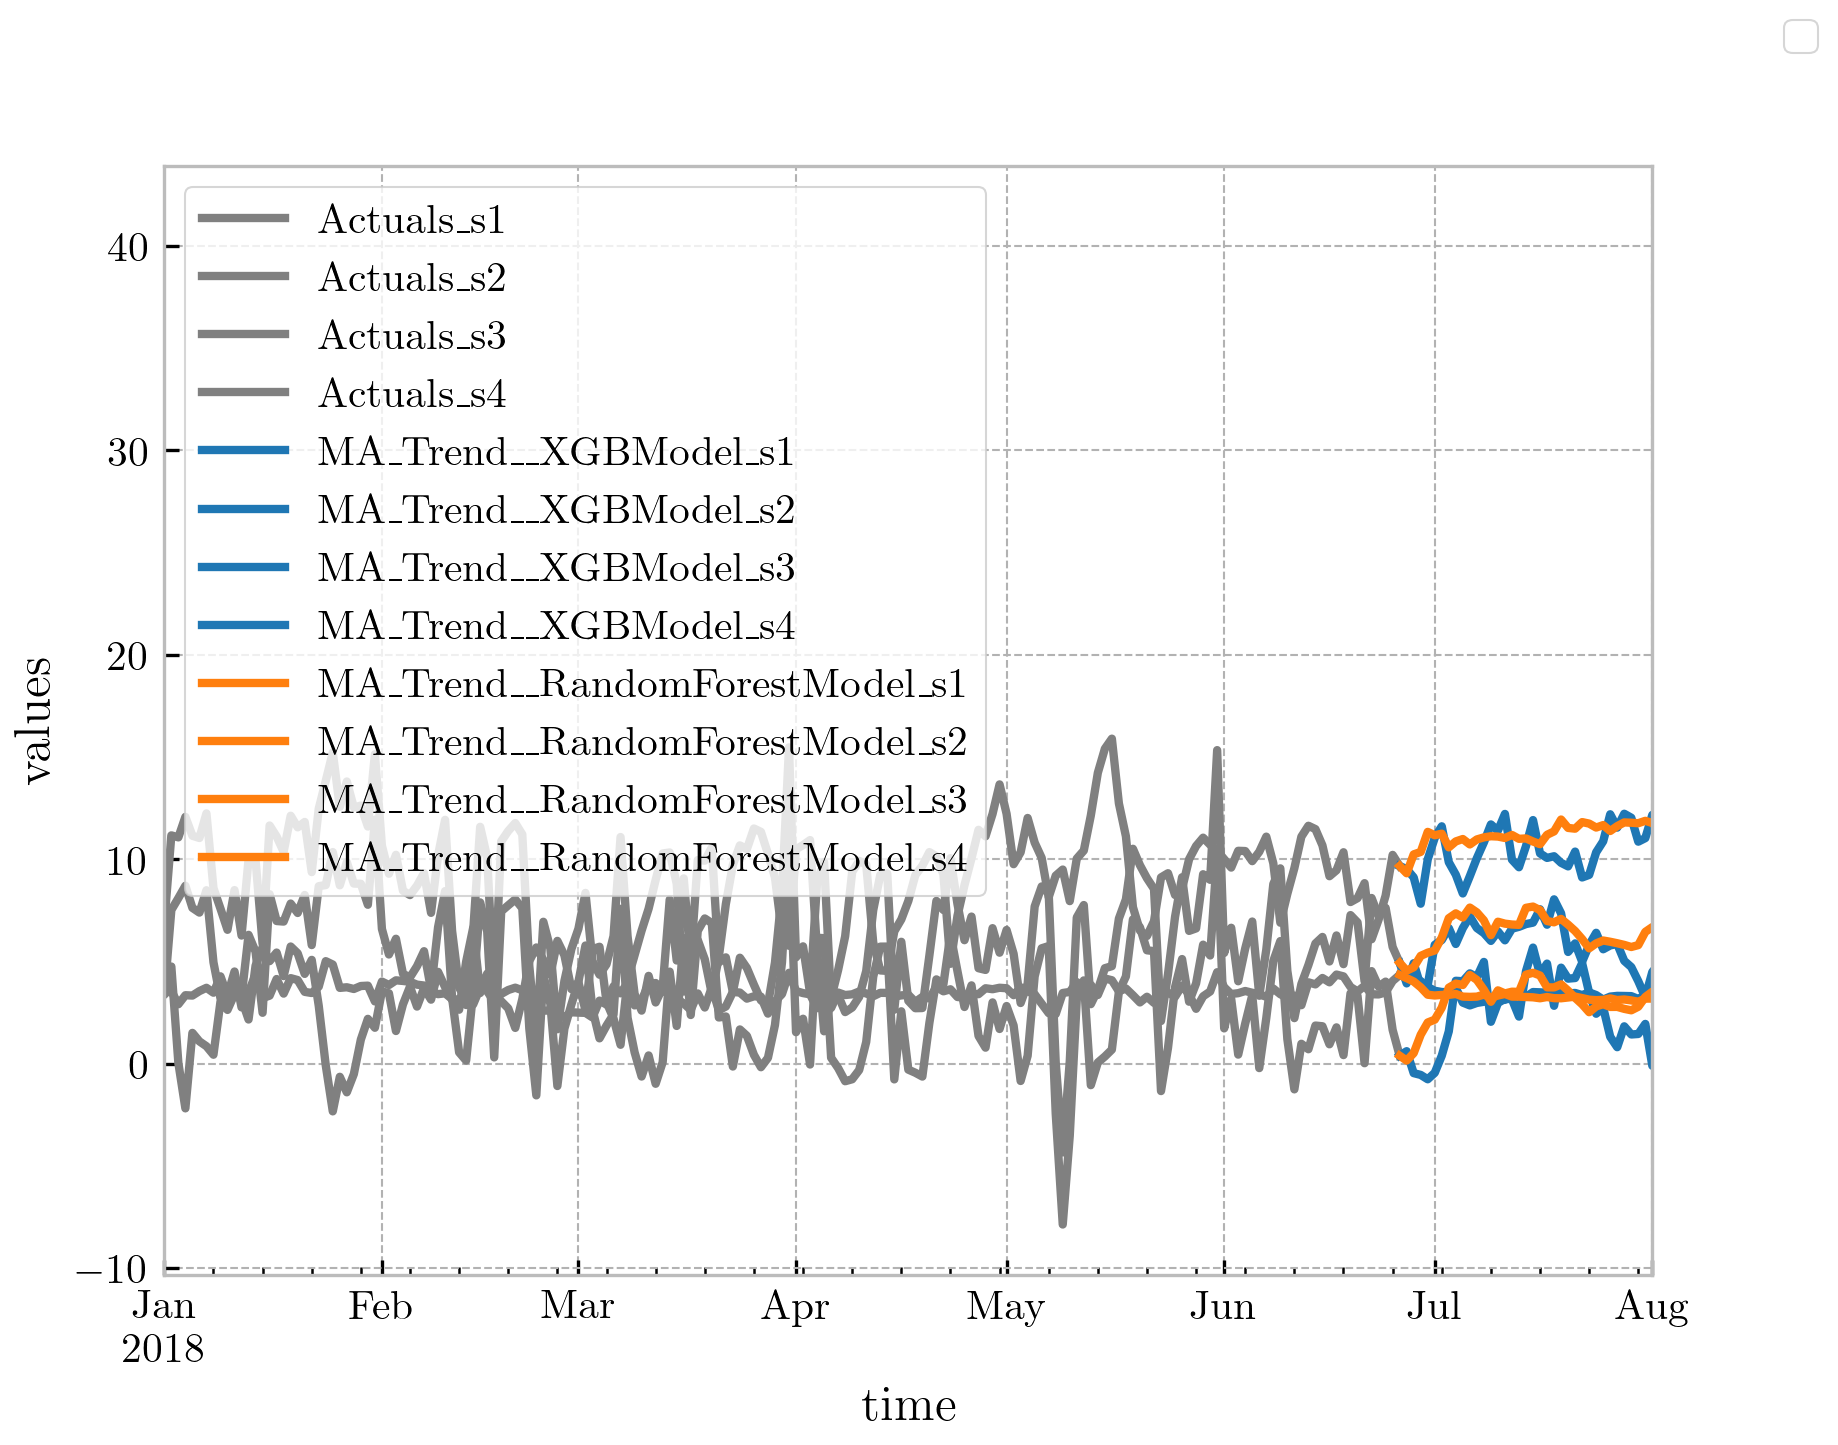
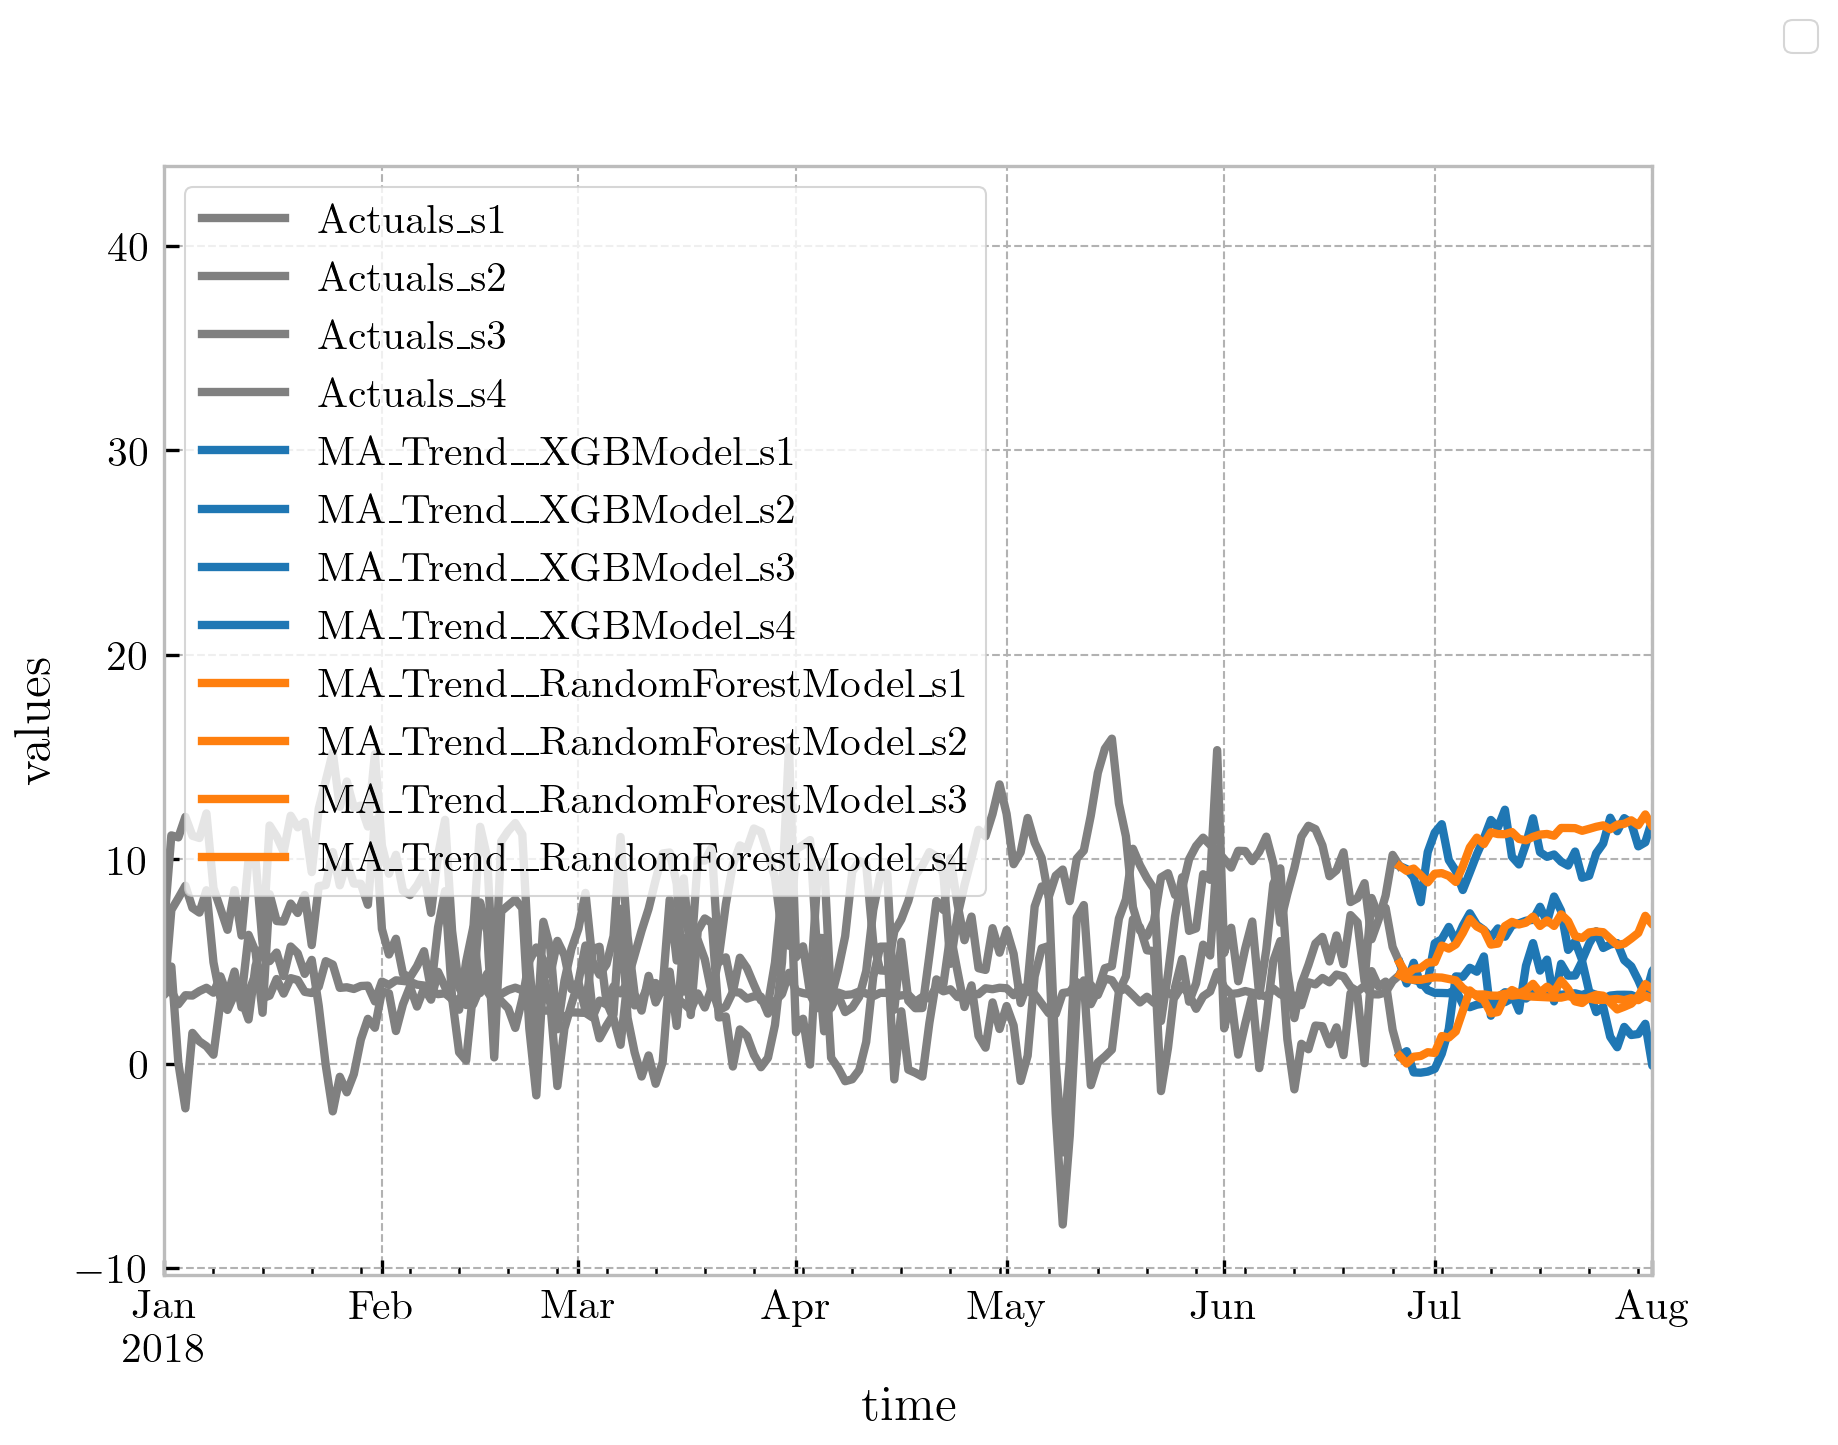
update favorita

Changed region(s): [[0.7443, 0.5606, 0.8993, 0.7474]]

diff --git a/src/pasts/core/handle_nan.py b/src/pasts/core/handle_nan.py
@@ -1,0 +1,208 @@
+# Copyright 2023 Eurobios
+# Licensed under the Apache License, Version 2.0 (the "License");
+# you may not use this file except in compliance with the License.
+# You may obtain a copy of the License at
+#     http://www.apache.org/licenses/LICENSE-2.0
+# Unless required by applicable law or agreed to in writing, software
+# distributed under the License is distributed on an "AS IS" BASIS,
+# WITHOUT WARRANTIES OR CONDITIONS OF ANY KIND, either express or implied.
+# See the License for the specific language governing permissions and limitations under the License.
+
+import warnings
+
+import numpy as np
+import pandas as pd
+
+
+class NaNHandler:
+    """Accessor for NaN handling on a Signal.
+
+    Obtained via ``signal.handle_nan``. All methods operate **in place** on the
+    signal data and return ``self`` so that calls can be chained::
+
+        signal.handle_nan.before_launch(0).interpolate(max_consecutive=5).after_stops(0)
+
+    Methods
+    -------
+    fill(value=0)
+        Replace every NaN with a scalar value.
+    interpolate(max_consecutive=None)
+        Interpolate **internal** gaps only (never touches leading/trailing NaN).
+    extrapolate(method='ffill')
+        Fill NaN at the **edges** of each column (before first / after last valid value).
+    before_launch(value=0)
+        Fill NaN before the first valid observation in each column.
+    after_stops(value=0)
+        Fill NaN after the last valid observation in each column.
+    """
+
+    def __init__(self, signal):
+        self._signal = signal
+
+    # ------------------------------------------------------------------
+    # Internal helpers
+    # ------------------------------------------------------------------
+
+    def _apply(self, result: pd.DataFrame) -> "NaNHandler":
+        """Commit *result* back into the signal and reset metadata."""
+        # Import here to avoid circular imports at module level
+        from pasts.signal import Signal  # noqa: F401 – used for _profiling only
+
+        pd.DataFrame.__init__(self._signal, data=result)
+        self._signal._properties = type(self._signal)._profiling(self._signal)
+        if self._signal._validation._timestamp is not None:
+            self._signal._validation.reset()
+            warnings.warn(
+                "Train/test split has been reset after handle_nan(). "
+                "Call validation_split() again.",
+                UserWarning,
+                stacklevel=3,
+            )
+        return self
+
+    # ------------------------------------------------------------------
+    # Public methods
+    # ------------------------------------------------------------------
+
+    def fill(self, value: float = 0) -> "NaNHandler":
+        """Replace all NaN values with *value*.
+
+        Parameters
+        ----------
+        value : float, optional
+            Fill value (default 0).
+        """
+        result = pd.DataFrame(self._signal).fillna(value)
+        return self._apply(result)
+
+    def interpolate(self, max_consecutive: int = None) -> "NaNHandler":
+        """Interpolate **internal** NaN gaps with linear interpolation.
+
+        Only gaps that are surrounded by valid values on both sides are filled
+        (``limit_area='inside'``). Leading and trailing NaN are left untouched.
+
+        Parameters
+        ----------
+        max_consecutive : int, optional
+            Maximum number of consecutive NaN values to interpolate. Gaps
+            longer than this value are left as NaN. If ``None`` (default),
+            all internal gaps are interpolated regardless of length.
+        """
+        df = pd.DataFrame(self._signal)
+        result = df.interpolate(
+            method='linear',
+            limit=max_consecutive,
+            limit_area='inside',
+        )
+        return self._apply(result)
+
+    def extrapolate(self, method: str = 'ffill') -> "NaNHandler":
+        """Fill NaN at the **edges** of each column.
+
+        Targets only leading NaN (before first valid value) and trailing NaN
+        (after last valid value). Internal NaN are left untouched.
+
+        Parameters
+        ----------
+        method : str, optional
+            ``'ffill'`` — forward fill (repeat last known value).
+            ``'bfill'`` — backward fill (repeat first known value).
+            ``'linear'`` — linear extrapolation using the 2 nearest valid points.
+            Default is ``'ffill'``.
+        """
+        if method not in ('ffill', 'bfill', 'linear'):
+            raise ValueError(
+                f"Unknown extrapolation method {method!r}. "
+                "Use 'ffill', 'bfill', or 'linear'."
+            )
+        df = pd.DataFrame(self._signal).copy()
+
+        if method == 'ffill':
+            result = df.ffill()
+        elif method == 'bfill':
+            result = df.bfill()
+        else:  # linear
+            result = df.copy()
+            for col in df.columns:
+                series = df[col]
+                valid = series.dropna()
+                if len(valid) < 2:
+                    continue
+                # Forward extrapolation (trailing NaN)
+                if pd.isna(series.iloc[-1]):
+                    x0, x1 = valid.index[-2], valid.index[-1]
+                    y0, y1 = valid.iloc[-2], valid.iloc[-1]
+                    slope = _linear_slope(x0, x1, y0, y1)
+                    for idx in series.index[series.index > x1]:
+                        gap = _index_diff(x1, idx, series.index)
+                        result.loc[idx, col] = y1 + slope * gap
+                # Backward extrapolation (leading NaN)
+                if pd.isna(series.iloc[0]):
+                    x0, x1 = valid.index[0], valid.index[1]
+                    y0, y1 = valid.iloc[0], valid.iloc[1]
+                    slope = _linear_slope(x0, x1, y0, y1)
+                    for idx in series.index[series.index < x0]:
+                        gap = _index_diff(x0, idx, series.index)
+                        result.loc[idx, col] = y0 + slope * gap
+
+        return self._apply(result)
+
+    def before_launch(self, value: float = 0) -> "NaNHandler":
+        """Fill NaN **before** the first valid observation in each column.
+
+        Useful for products that were not yet launched at the start of the
+        series — their leading NaN values are replaced with *value*.
+
+        Parameters
+        ----------
+        value : float, optional
+            Fill value (default 0).
+        """
+        df = pd.DataFrame(self._signal).copy()
+        for col in df.columns:
+            first_valid = df[col].first_valid_index()
+            if first_valid is not None:
+                mask = df.index < first_valid
+                df.loc[mask, col] = df.loc[mask, col].fillna(value)
+        return self._apply(df)
+
+    def after_stops(self, value: float = 0) -> "NaNHandler":
+        """Fill NaN **after** the last valid observation in each column.
+
+        Useful for products that have been discontinued — their trailing NaN
+        values are replaced with *value* (typically 0).
+
+        Parameters
+        ----------
+        value : float, optional
+            Fill value (default 0).
+        """
+        df = pd.DataFrame(self._signal).copy()
+        for col in df.columns:
+            last_valid = df[col].last_valid_index()
+            if last_valid is not None:
+                mask = df.index > last_valid
+                df.loc[mask, col] = df.loc[mask, col].fillna(value)
+        return self._apply(df)
+
+
+# ------------------------------------------------------------------
+# Private helpers for linear extrapolation
+# ------------------------------------------------------------------
+
+def _linear_slope(x0, x1, y0, y1):
+    """Slope between two points. Works for both numeric and datetime indices."""
+    dx = _index_diff(x0, x1, None)
+    if dx == 0:
+        return 0.0
+    return (y1 - y0) / dx
+
+
+def _index_diff(ref, target, index):
+    """Signed numeric distance from *ref* to *target* (1 unit = 1 step)."""
+    if isinstance(ref, (pd.Timestamp, np.datetime64)):
+        # Use nanoseconds then normalise to avoid floating-point issues
+        ref_ns = pd.Timestamp(ref).value
+        tgt_ns = pd.Timestamp(target).value
+        return tgt_ns - ref_ns
+    return float(target) - float(ref)

diff --git a/src/pasts/signal.py b/src/pasts/signal.py
@@ -10,7 +10,6 @@
 
 import copy
 import os
-import warnings
 from typing import Union
 
 import pandas as pd
@@ -27,6 +26,7 @@ from pasts.metrics import Metrics
 from pasts import persistence
 from pasts.visualization import PlotAccessor
 from pasts.prediction_intervals import CIAccessor
+from pasts.core.handle_nan import NaNHandler
 
 
 class Signal(DataCube):
@@ -154,38 +154,22 @@ class Signal(DataCube):
         validate_covariates(self.data.index, cov)
         self._covariates = cov
 
-    def handle_nan(self, method: str = "drop", **kwargs) -> None:
-        """Remove or fill NaN values in the signal data (in place).
+    @property
+    def handle_nan(self) -> NaNHandler:
+        """Accessor for NaN handling.
 
-        Parameters
-        ----------
-        method : str
-            ``"drop"`` — drop rows containing any NaN (default).
-            ``"fill"`` — fill NaN with a value (default 0, override via *value=…*).
-            ``"interpolate"`` — ``pandas.DataFrame.interpolate`` + bfill + ffill.
-        **kwargs
-            Passed to the underlying pandas method (e.g. ``value=0`` for
-            ``"fill"``, ``method='linear'`` for ``"interpolate"``).
+        Usage::
+
+            signal.handle_nan.fill(value=0)
+            signal.handle_nan.interpolate(max_consecutive=5)
+            signal.handle_nan.extrapolate(method='ffill')
+            signal.handle_nan.before_launch(value=0)
+            signal.handle_nan.after_stops(value=0)
+
+            # chainable
+            signal.handle_nan.before_launch(0).interpolate(max_consecutive=5).after_stops(0)
         """
-        if method == "drop":
-            result = self.dropna(**kwargs)
-        elif method == "fill":
-            result = self.fillna(kwargs.pop("value", 0), **kwargs)
-        elif method == "interpolate":
-            result = self.interpolate(**kwargs).bfill().ffill()
-        else:
-            raise ValueError(
-                f"Unknown method {method!r}. Use 'drop', 'fill', or 'interpolate'."
-            )
-        pd.DataFrame.__init__(self, data=result)
-        self._properties = Signal._profiling(self)
-        if self._validation._timestamp is not None:
-            self._validation.reset()
-            warnings.warn(
-                "Train/test split has been reset after handle_nan(). "
-                "Call validation_split() again.",
-                UserWarning,
-            )
+        return NaNHandler(self)
 
     # -------------------------------------------------------------------
     # Decomposition

diff --git a/src/pasts/components/darts_model.py b/src/pasts/components/darts_model.py
@@ -137,8 +137,14 @@ class DartsModel(TimeSeriesModel):
                 f"Handle missing values before fitting (e.g. df.fillna(0), df.dropna(), "
                 f"df.interpolate())."
             )
+        if isinstance(X.index, pd.DatetimeIndex) and X.index.freq is None:
+            inferred = pd.infer_freq(X.index)
+            if inferred is not None:
+                X = X.asfreq(inferred)
+
+        freq_arg = X.index.freq if isinstance(X.index, pd.DatetimeIndex) else None
         from darts import TimeSeries
-        self._train_series = TimeSeries.from_dataframe(X)
+        self._train_series = TimeSeries.from_dataframe(X, fill_missing_dates=True, freq=freq_arg)
 
         # Attach static covariates to the TimeSeries object
         if covariates is not None and covariates.static is not None:

diff --git a/examples/favorita/favorita.py b/examples/favorita/favorita.py
@@ -128,7 +128,7 @@ for g in sorted(group_map.unique()):
     signal.residual -= LinearTrend(lags=200)
 
     t1 = time.time()
-    signal.apply_model(RandomForestModel(lags=100, n_jobs=-1, n_estimators=20, max_depth=10))
+    signal.apply_model(RandomForestModel(lags=50, n_jobs=-1, n_estimators=20, max_depth=10))
     print(f"  LightGBM fit in {time.time() - t1:.1f}s")
 
     signal.compute_scores()

diff --git a/src/pasts/core/__init__.py b/src/pasts/core/__init__.py
@@ -2,3 +2,4 @@ from pasts.core.datacube import DataCube
 from pasts.core.base_model import TimeSeriesModel
 from pasts.core.decomposition import Decomposition
 from pasts.core.model_result import ModelResult
+from pasts.core.handle_nan import NaNHandler
